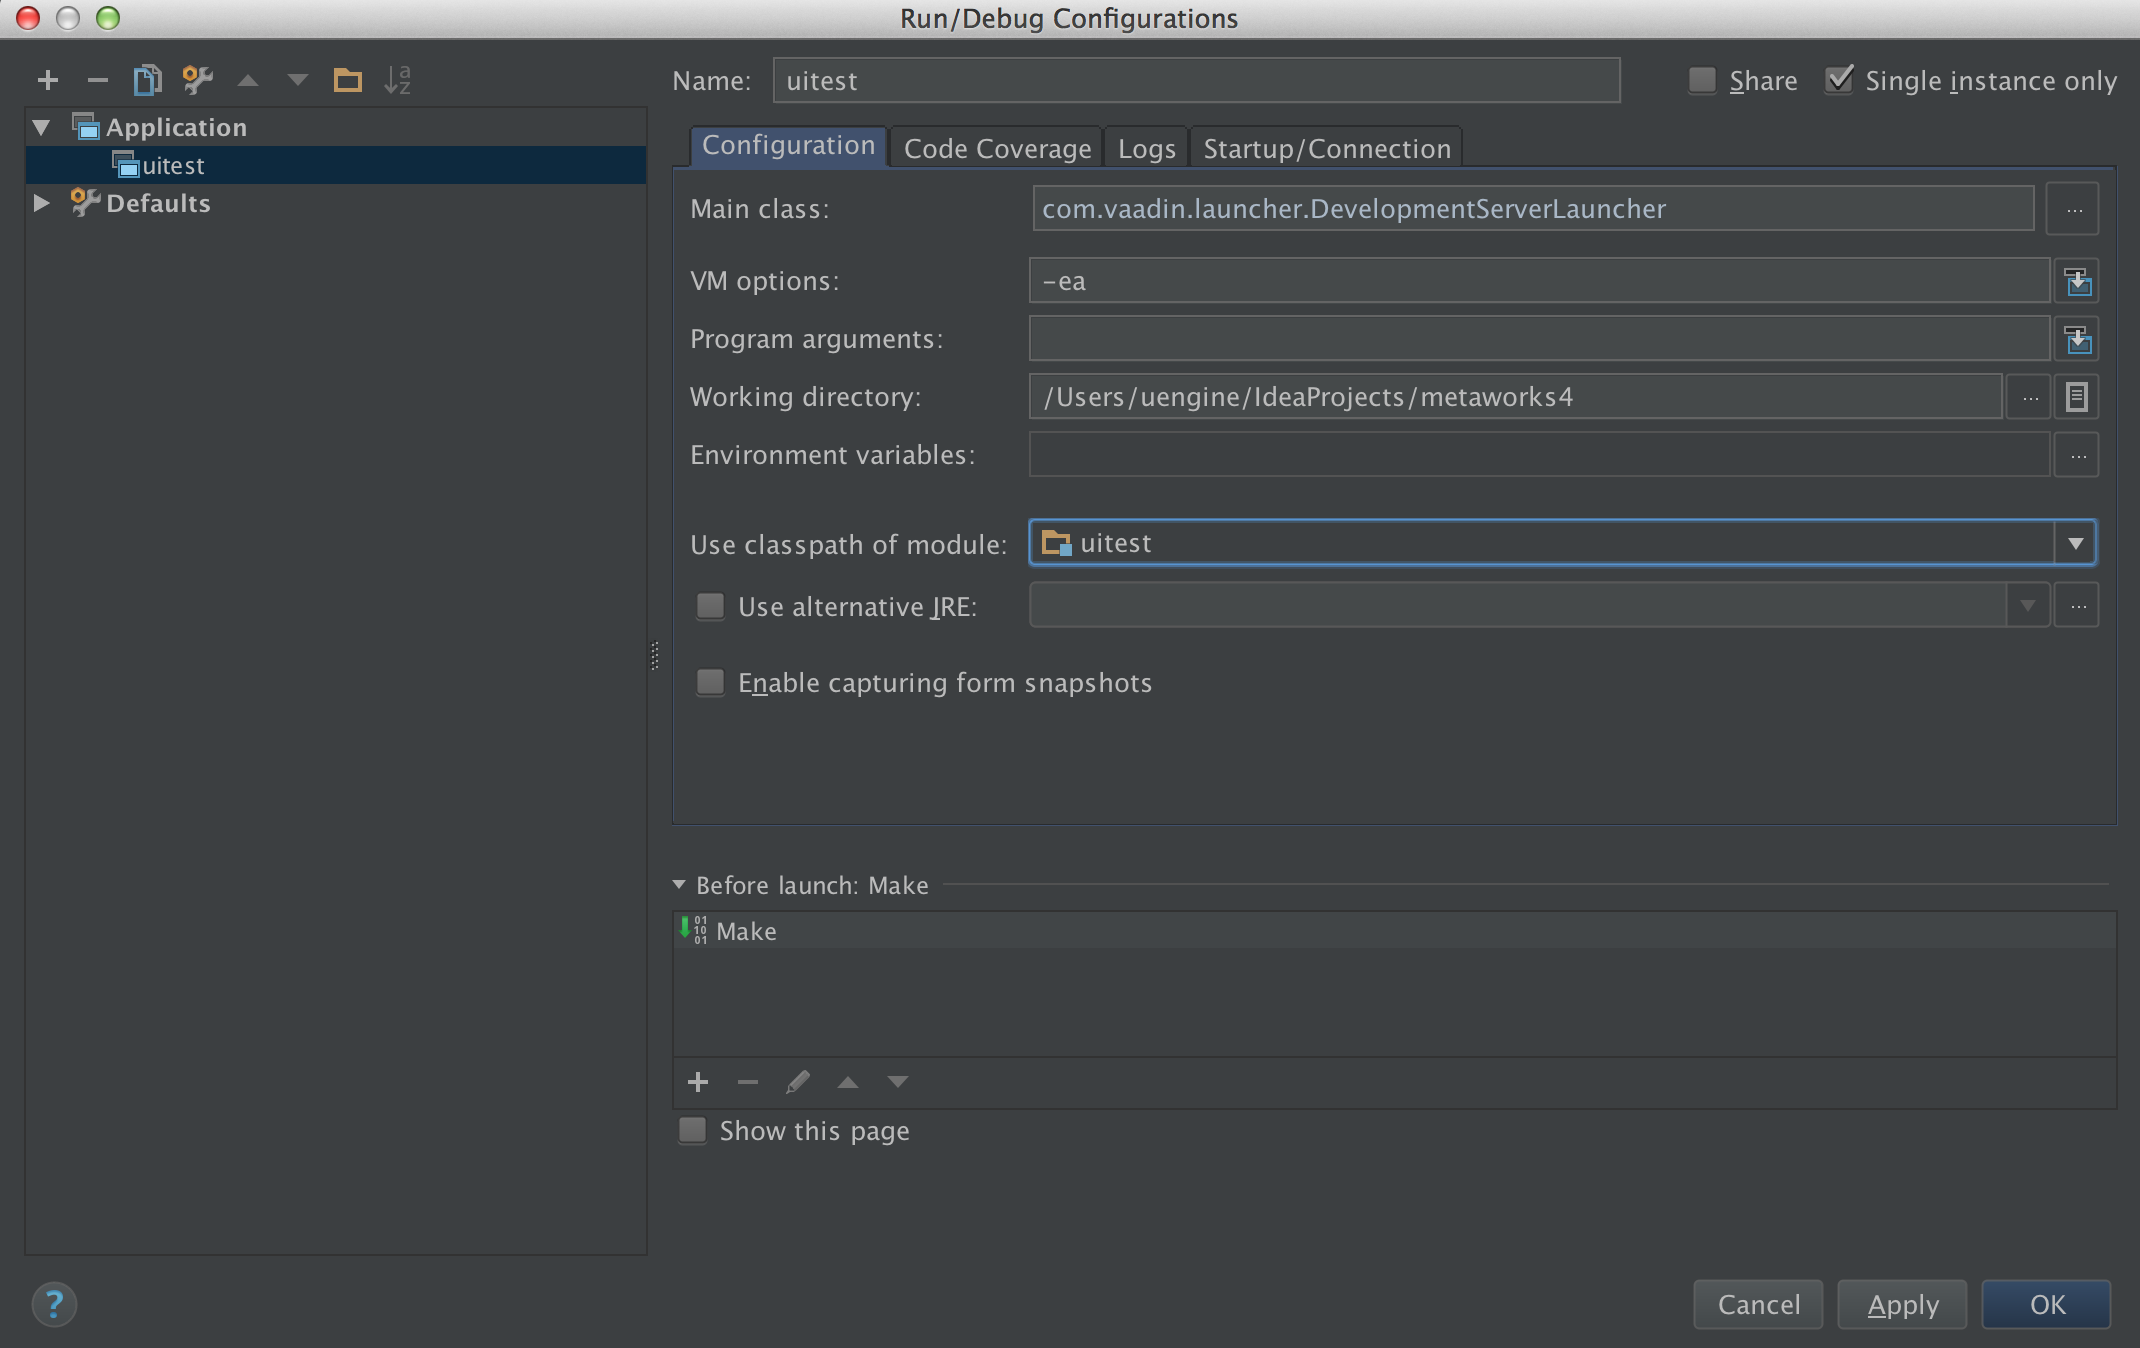
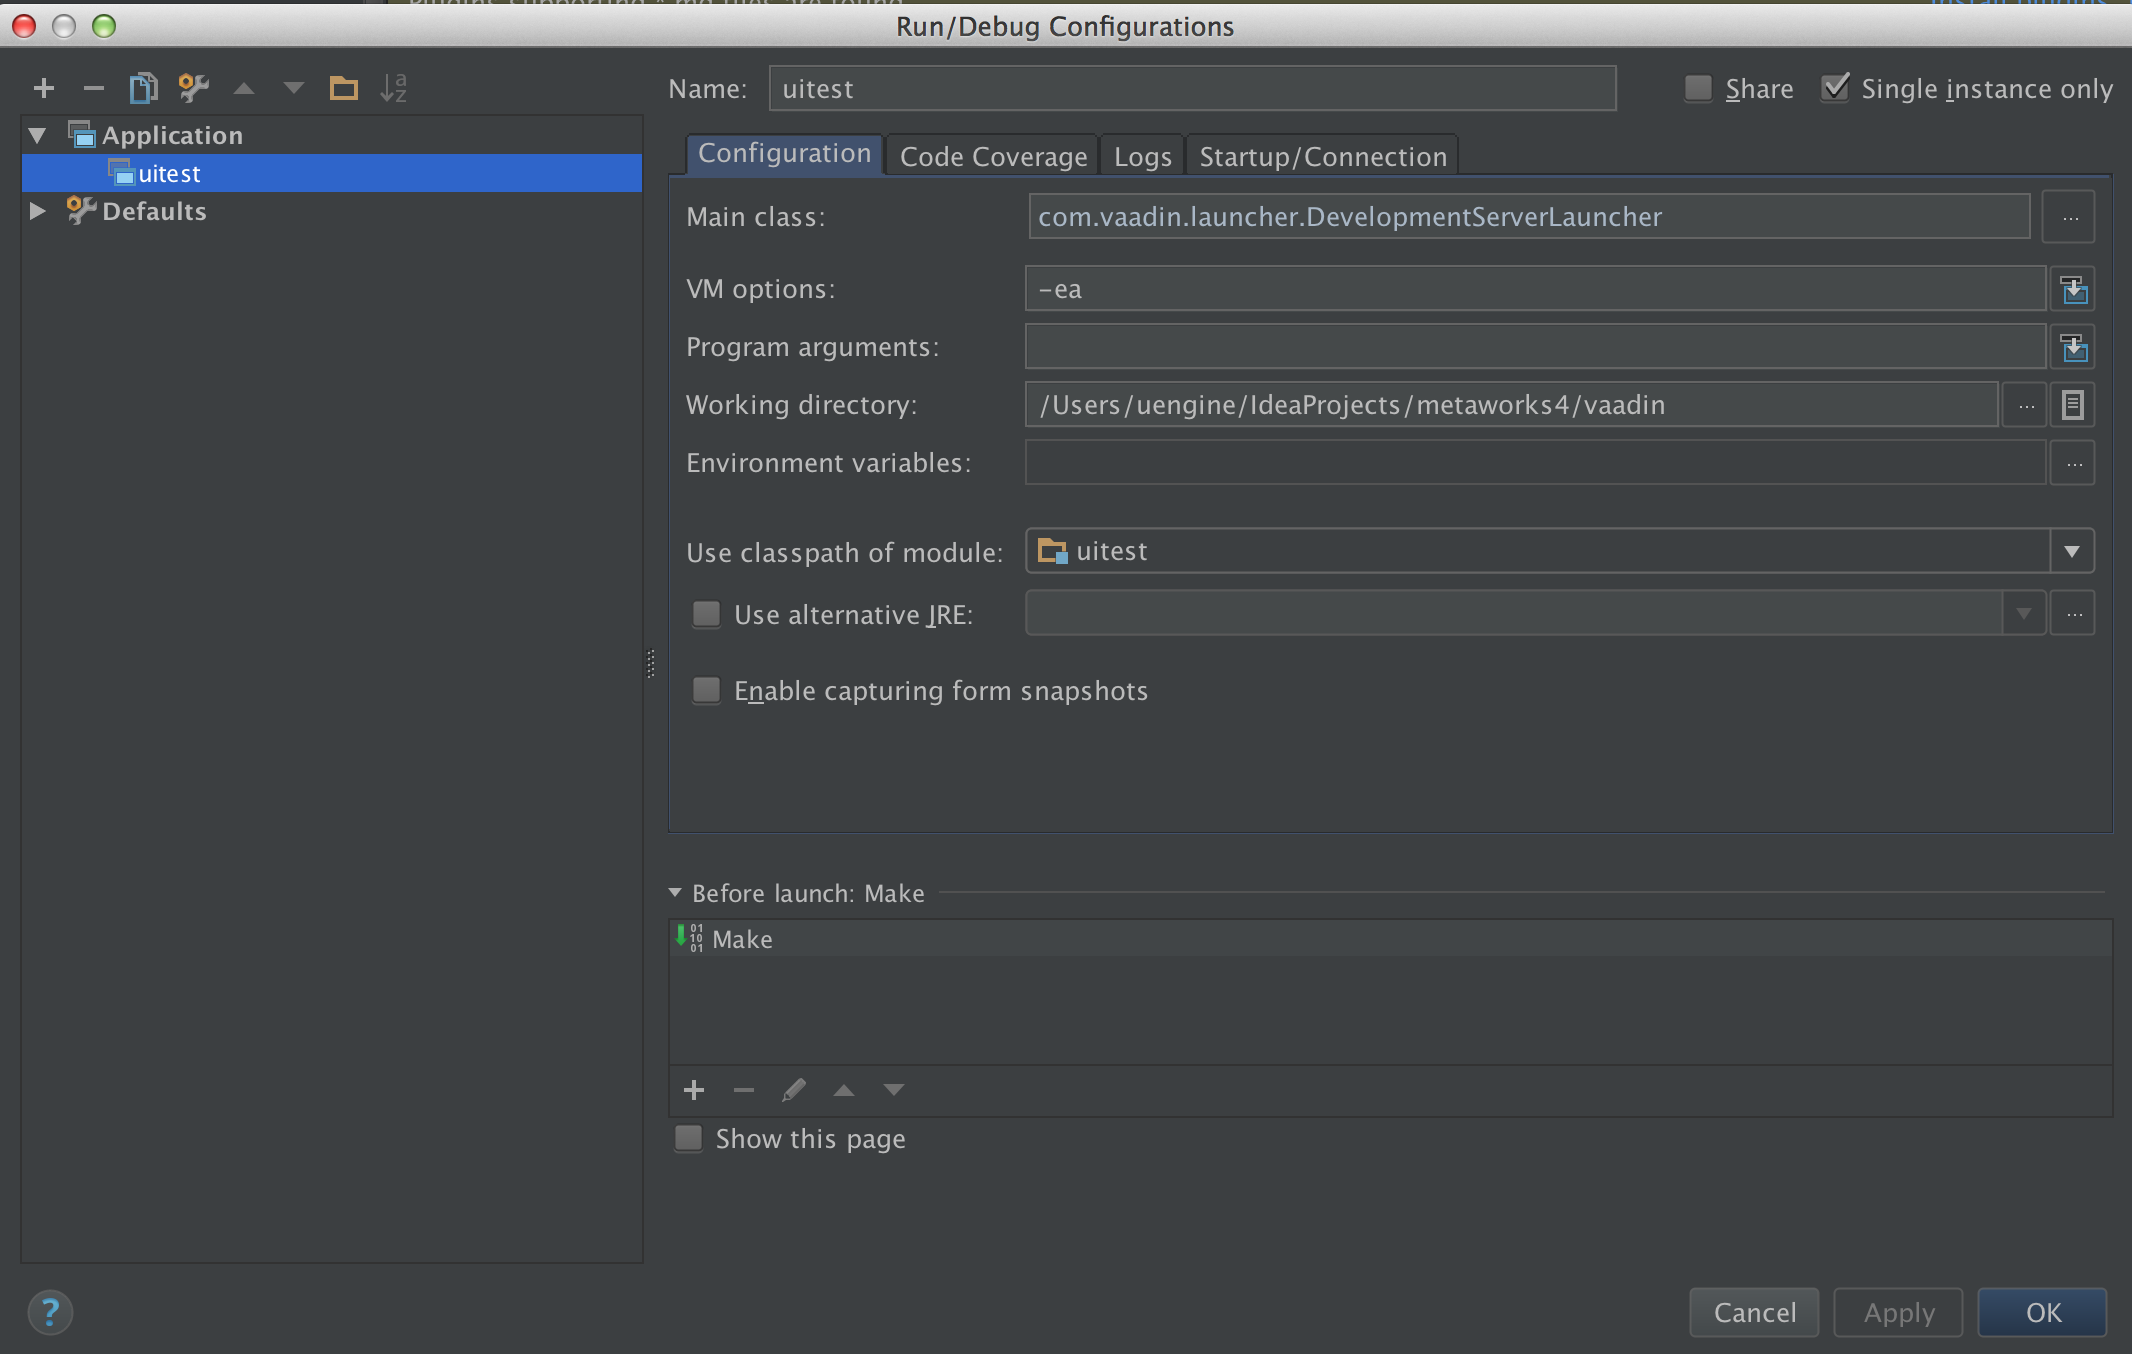
2015-11-26 일기

diff --git a/docs/idea-vaadin-dev-env/idea-vaadin-dev-env.md b/docs/idea-vaadin-dev-env/idea-vaadin-dev-env.md
@@ -183,6 +183,7 @@ Total time: 9 seconds
   - Main class: com.vaadin.launcher.DevelopmentServerLauncher
   - VM options: -ea
   - Use classpath of module: uitest
+  - Working directory를 vaadin 폴더로 설정합니다.
   - Select Single Instance only
 
 ![run-conf](img/run-conf.png)
@@ -204,6 +205,7 @@ Total time: 9 seconds
 
 > 6번 단계를 먼저 실행하여 vaadin/build/classes 에 필요 클래스들을 구성해야 수행됩니다.
 
+> http://localhost:8888/run/com.vaadin.tests.components.label.LabelModes?restartApplication 를 통하여 테스트를 수행합니다.
 
 #### <a name="superdevmode"></a>8. Running CodeServer for Super DevMode
 > This is a bit tricky because we need source directories from multiple modules to be added to the classpath and IDEA doesn't really support that. So we basically need to use a custom classpath:
